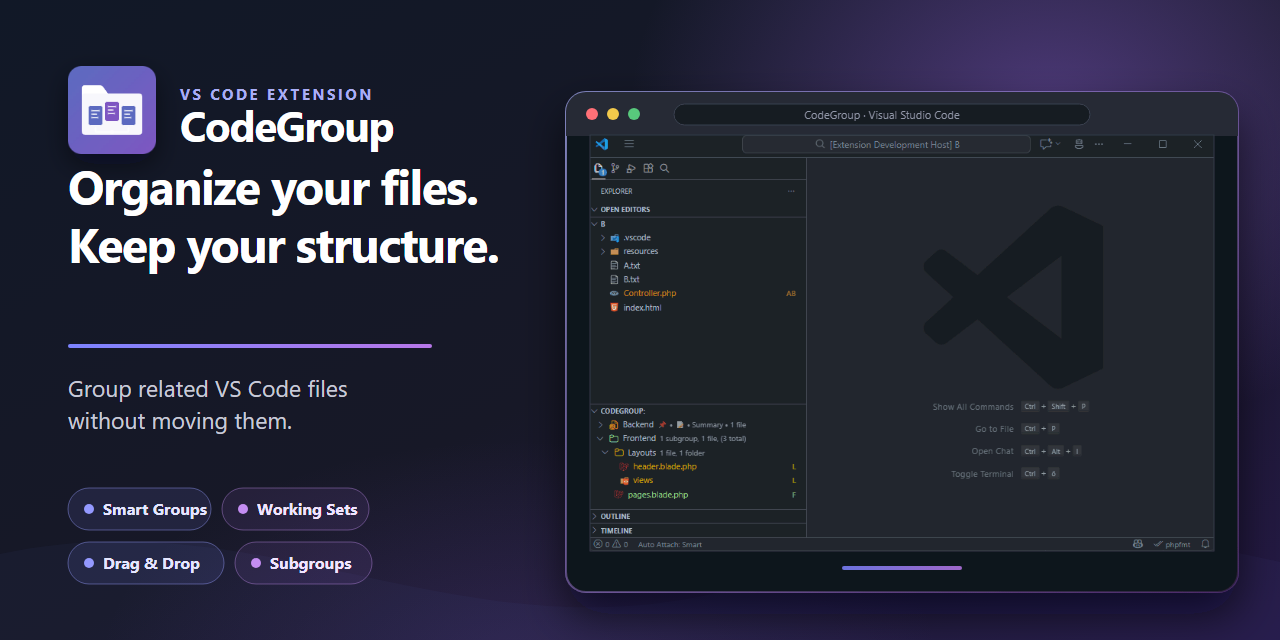
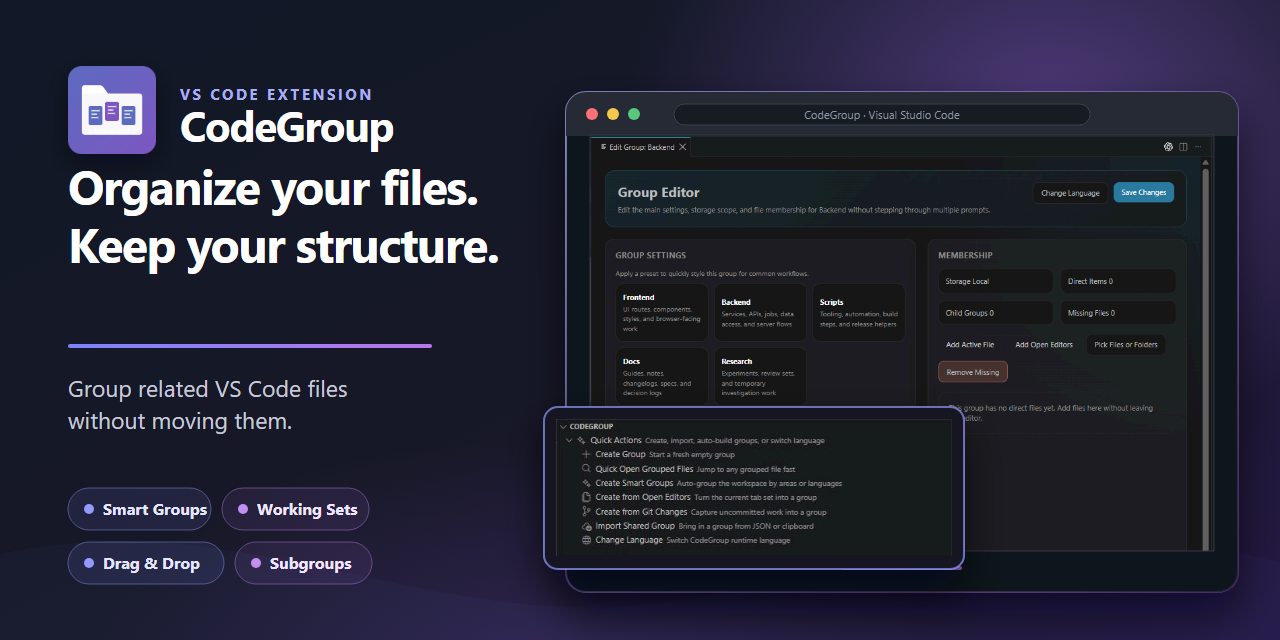
docs(repo): refresh CodeGroup screenshots

diff --git a/README.md b/README.md
@@ -16,7 +16,9 @@ Create persistent file groups, nested subgroups, smart working sets, global grou
 
 </div>
 
-![CodeGroup demo](https://raw.githubusercontent.com/MiszterSoul/codegroup/master/images/demo.gif)
+<p align="center">
+  <img src="https://raw.githubusercontent.com/MiszterSoul/codegroup/master/images/screenshot-quick-actions.png" alt="CodeGroup Quick Actions in the VS Code Explorer">
+</p>
 
 ## Why CodeGroup?
 
@@ -54,6 +56,12 @@ CodeGroup lets you collect those related files into reusable groups without chan
 5. Click a file to open it, or use **Open All** for the full working set.
 
 That is enough to start. Everything else is optional.
+
+## Visual group editor
+
+Open any group in the visual editor to manage its name, notes, icon, color, badge, order, storage scope, presets, and file membership in one place.
+
+![CodeGroup visual group editor](https://raw.githubusercontent.com/MiszterSoul/codegroup/master/images/screenshot-group-editor.png)
 
 ## Smart Groups
 
